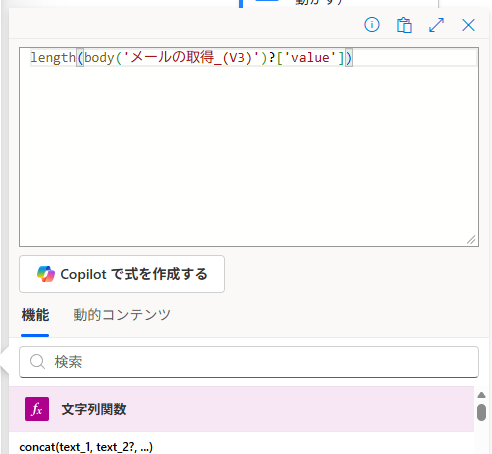
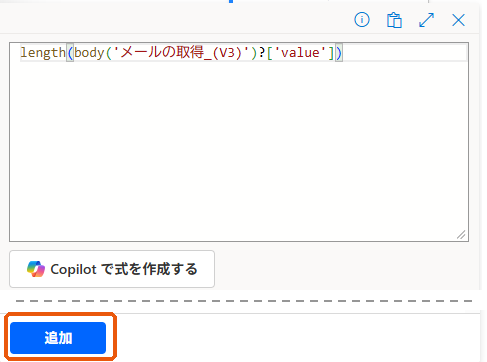
vol-29: 式の入力欄の「追加」（左下の青いボタン）を実画面で

diff --git a/slides/vol-29/index.html b/slides/vol-29/index.html
@@ -1136,13 +1136,13 @@
       <div class="ia">→</div>
       <div class="is hot"><div class="in">3</div><div class="it"><span class="key">/</span> を打つ →<br><b>「式を挿入する」</b></div><div class="idd">半角のスラッシュ</div></div>
       <div class="ia">→</div>
-      <div class="is"><div class="in">4</div><div class="it">コピーした式を貼る<br>→ <b>「追加」</b></div><div class="idd">本文に式のかたまりが入る</div></div>
+      <div class="is"><div class="in">4</div><div class="it">コピーした式を貼る<br>→ 左下の<b>「追加」</b></div><div class="idd">本文に式のかたまりが入る</div></div>
       <div class="ia">→</div>
       <div class="is"><div class="in">5</div><div class="it">右上の<br><b>「保存」</b></div><div class="idd">どうなるかは次のページ</div></div>
     </div>
     <div class="shots2">
       <div><div class="lbl-s">③ 「/」を打つと出るメニュー（実際の画面）</div><img class="realshot" src="assets/real-ch2-slash-menu.png" alt="メッセージ欄で / を打つと、動的コンテンツを挿入する・式を挿入する のメニューが出た画面"></div>
-      <div><div class="lbl-s">④ 「式を挿入する」で開く入力欄に貼る（実際の画面）</div><img class="realshot" src="assets/real-ch2-expr-editor.png" alt="式の入力欄に length(body('メールの取得_(V3)')?['value']) を貼った画面"></div>
+      <div><div class="lbl-s">④ 入力欄に貼って、左下の「追加」（実際の画面）</div><img class="realshot" src="assets/real-ch2-expr-editor.png" alt="式の入力欄に length(body('メールの取得_(V3)')?['value']) を貼った画面"></div>
     </div>
     <div class="callout pa" style="margin-top:8px;font-size:18px;padding-top:7px;padding-bottom:7px;"><strong>⚡・fx のボタンでも開けます</strong>が、本文ではカーソルの位置を見失うことがあるので「/」が確実です。第4章の式も、全部この入れ方です。</div>
 </div><div class="slide-footer"><span class="dobadge do"><b>🖐 いま手を動かす</b>デザイナー：本文で「/」→「式を挿入する」→ 貼る → 追加 → 保存</span><span class="chat-reminder">💬 気づいたことを #PA45 で気軽に投稿しよう！スクショOK！</span></div>

diff --git a/slides/vol-29/handson.html b/slides/vol-29/handson.html
@@ -251,7 +251,7 @@
       <li>下の1行をそのまま貼って送ります。</li>
       <li>返ってきた式の部分だけをコピーします。</li>
       <li>Power Automate のタブに戻り、Teams のアクションを開いて、メッセージ欄の「subject」の後ろをクリックします。</li>
-      <li>半角の <span class="k">/</span> を打ち、<b>「式を挿入する」</b>を選んで、コピーした式を貼り、<b>追加</b>します。</li>
+      <li>半角の <span class="k">/</span> を打ち、<b>「式を挿入する」</b>を選んで、コピーした式を貼り、入力欄の左下の青い<b>「追加」</b>を押します。</li>
       <li><b>保存</b>して、どうなるかを見ます。エラーになることが多いです（Copilot はこちらのフローを見ていないため、アクション名が合いません）。</li>
     </ol>
     <div class="codewrap">
